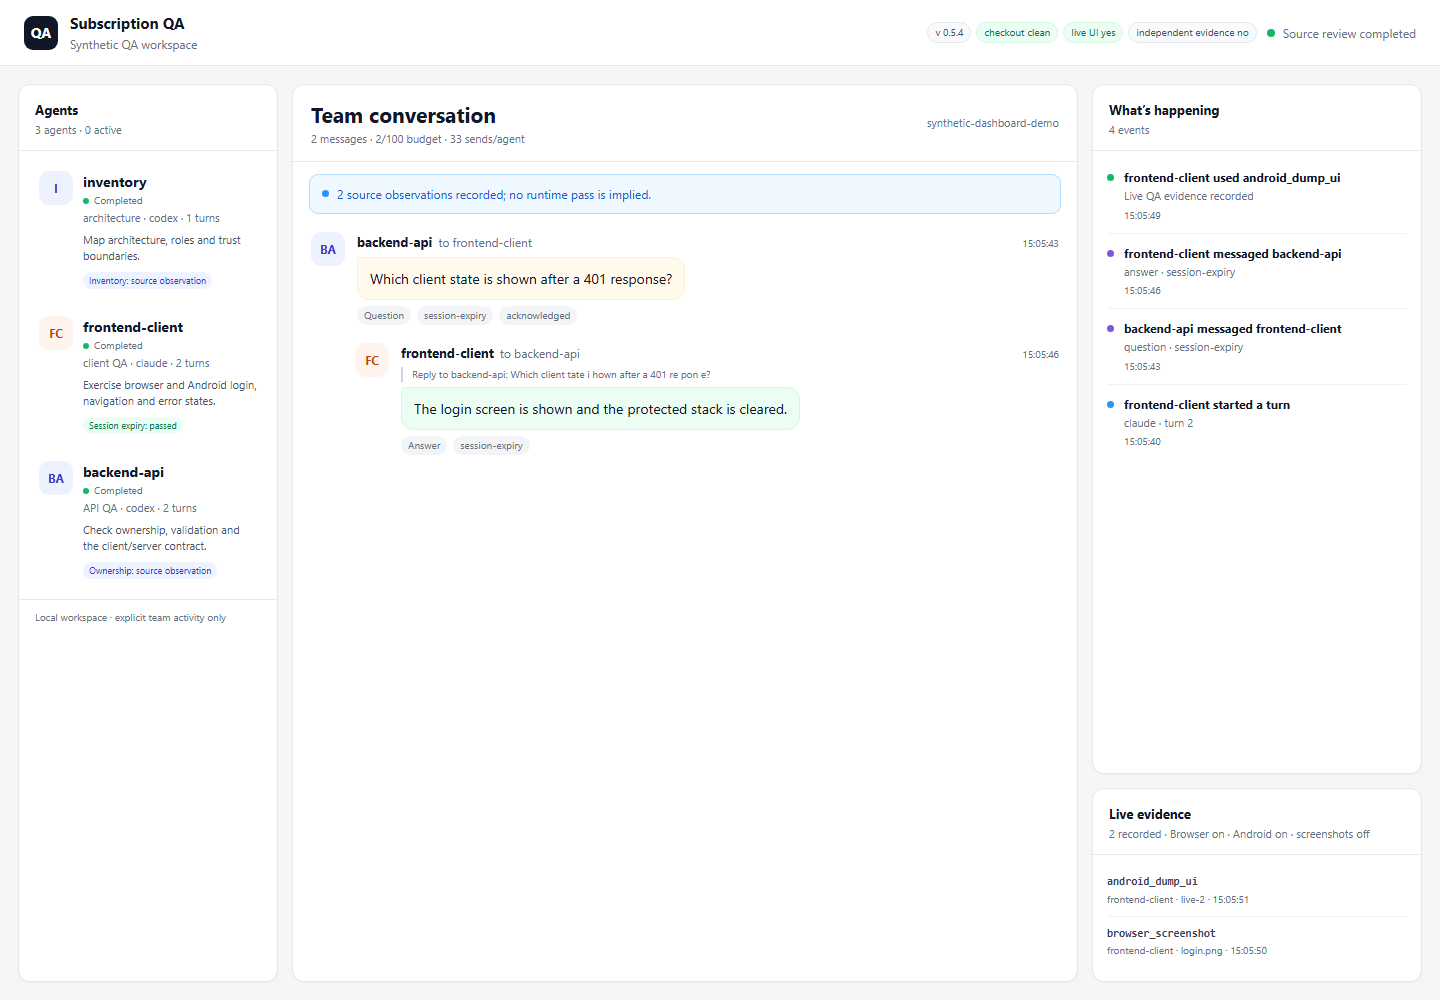
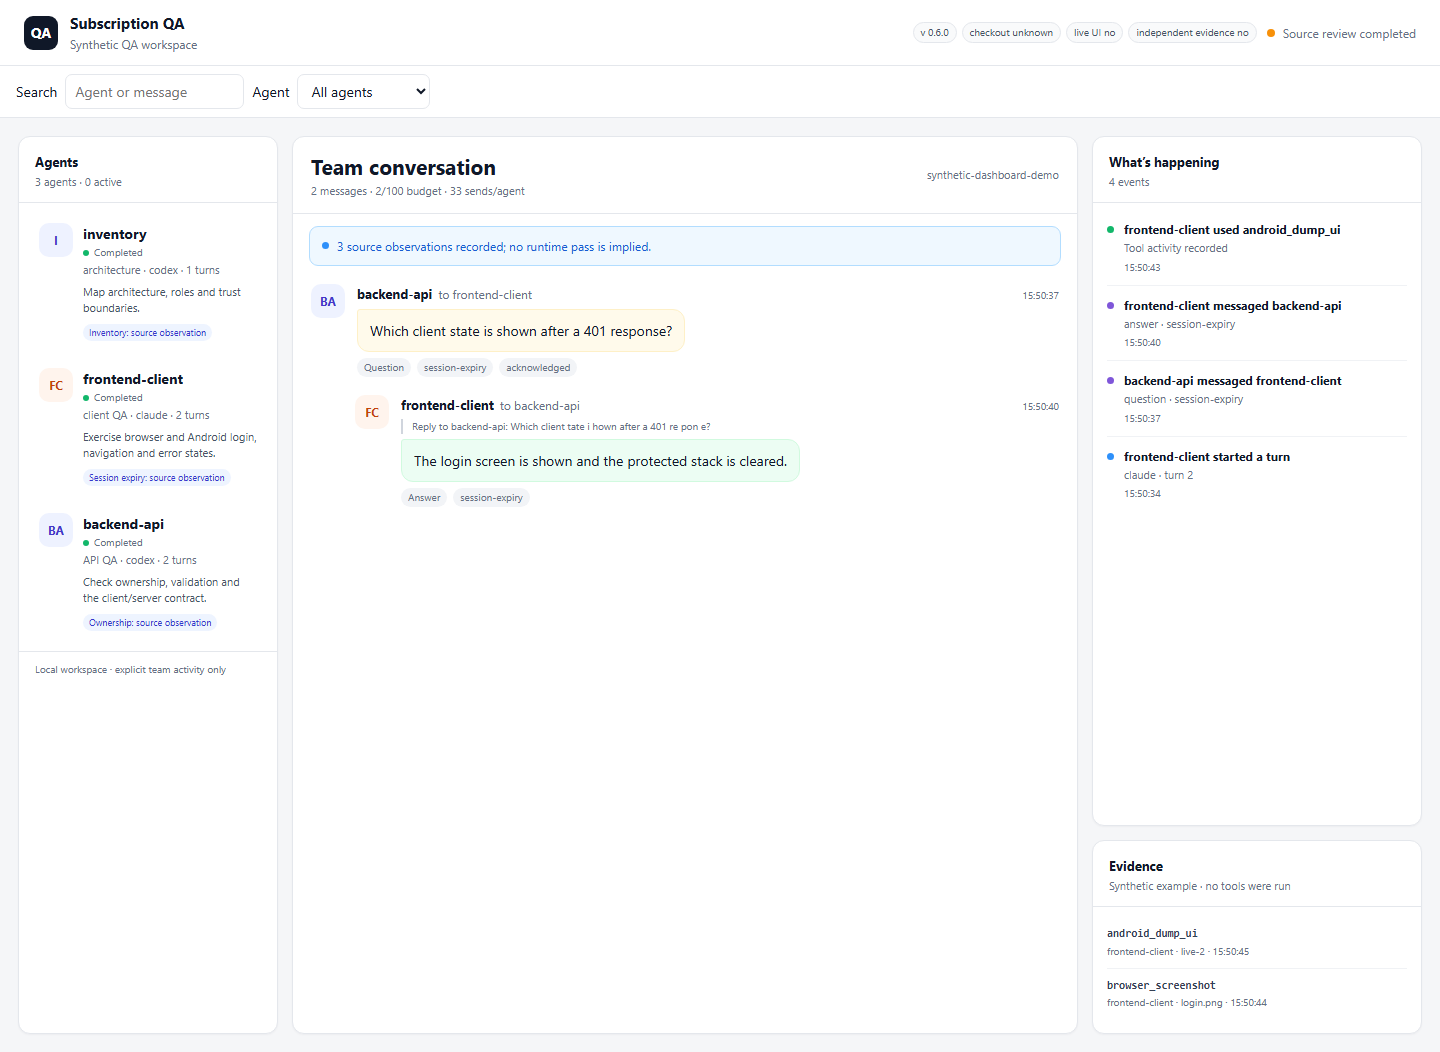
Add dashboard controls and accurate run provenance

diff --git a/README.md b/README.md
@@ -122,7 +122,13 @@ npm run team -- --repo /absolute/path/to/your-project --config qa.local.json
 `team` prints a random, token-scoped `127.0.0.1` dashboard URL. Open it while the run is active to watch each
 agent's assignment and state, turn start/finish events, inbox checks, explicit agent-to-agent messages and
 browser/Android evidence in an English, chat-style workspace. It does not expose hidden model reasoning.
-At completion, a standalone `dashboard.html` snapshot is written beside `report.json` for local review.
+Search and filter by agent, open recorded screenshots, and stop an active run from the dashboard. On a phone,
+Chat, Agents, Activity and Evidence are separate tabs. The connection label indicates only dashboard connectivity;
+the agent list and provenance chips show whether work or live UI checks actually ran.
+After the run, use **Download report** or **Run again**. A rerun creates a new private run directory and prints a
+new dashboard URL in the terminal. The terminal stays open for these actions; press Ctrl+C to close it. A standalone
+`dashboard.html` snapshot is written beside `report.json` and `live-artifacts/` for local review. Open the archive
+from that directory to keep its report and screenshot links working.
 
 To verify the configured disposable Android device before a full agent run:
 
@@ -178,6 +184,7 @@ npm run capture:demo
 - The runner does not start, seed or deploy the target application; the user supplies an isolated local or staging target.
 - Live browser and Android checks are opt-in. A configured capability is not reported as an executed test unless an operation actually ran.
 - GitHub Actions verifies code and the synthetic Chromium dashboard smoke test, but cannot verify private subscription sessions.
+- The synthetic dashboard demo is labeled as a demo; its sample messages and evidence do not prove any agent or UI test ran.
 - The tool is not a penetration-testing framework and must not be pointed at systems without authorization.
 
 GitHub Actions runs code-only checks. It intentionally does not receive or verify anyone's subscription
